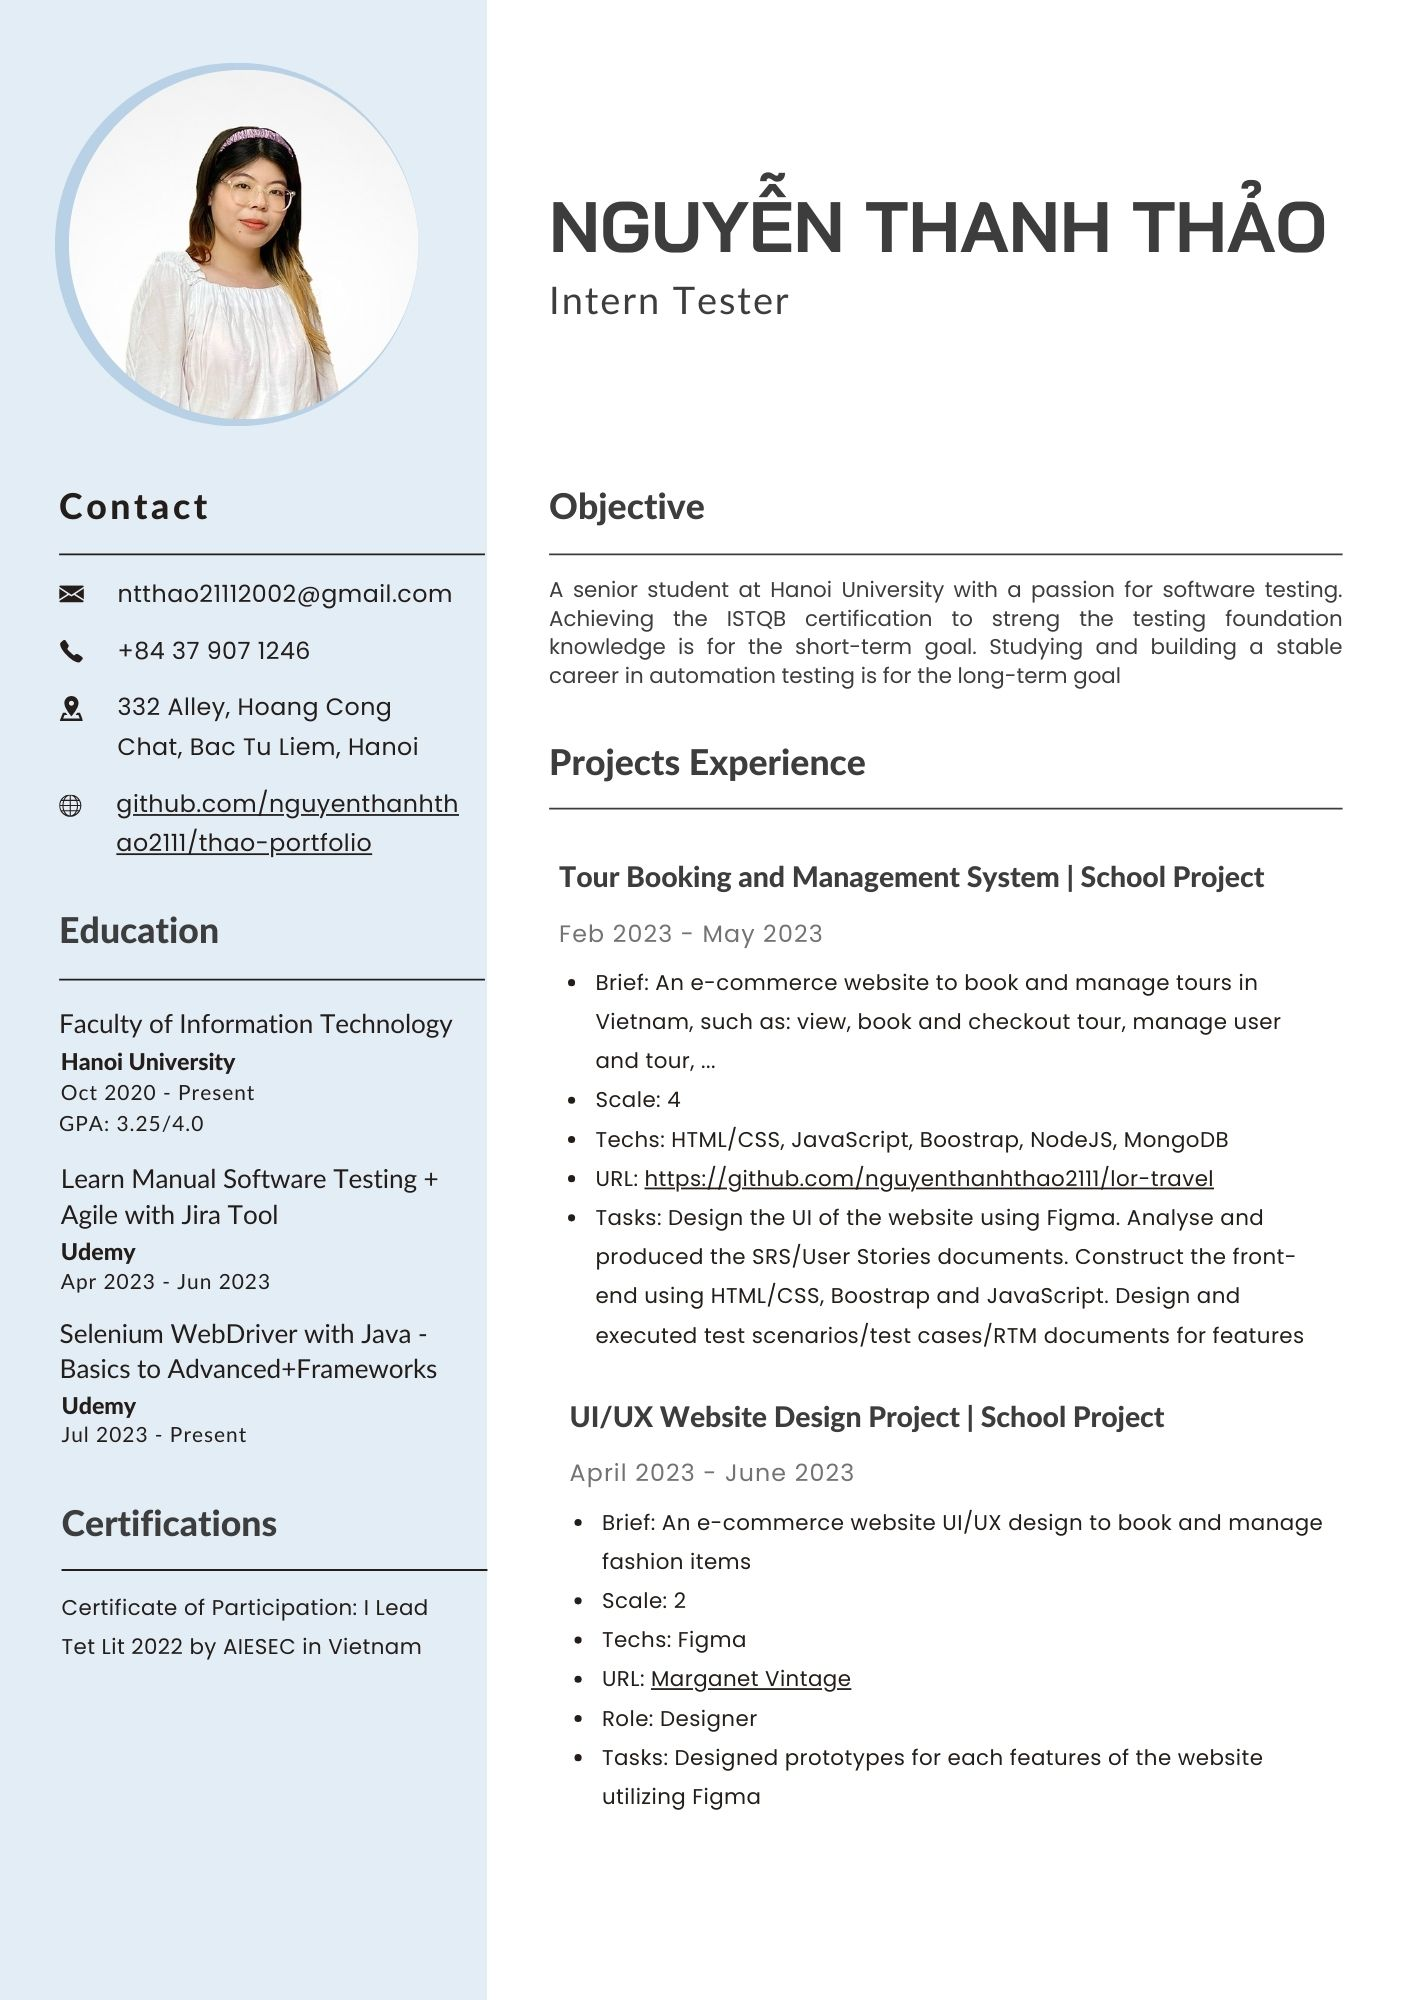
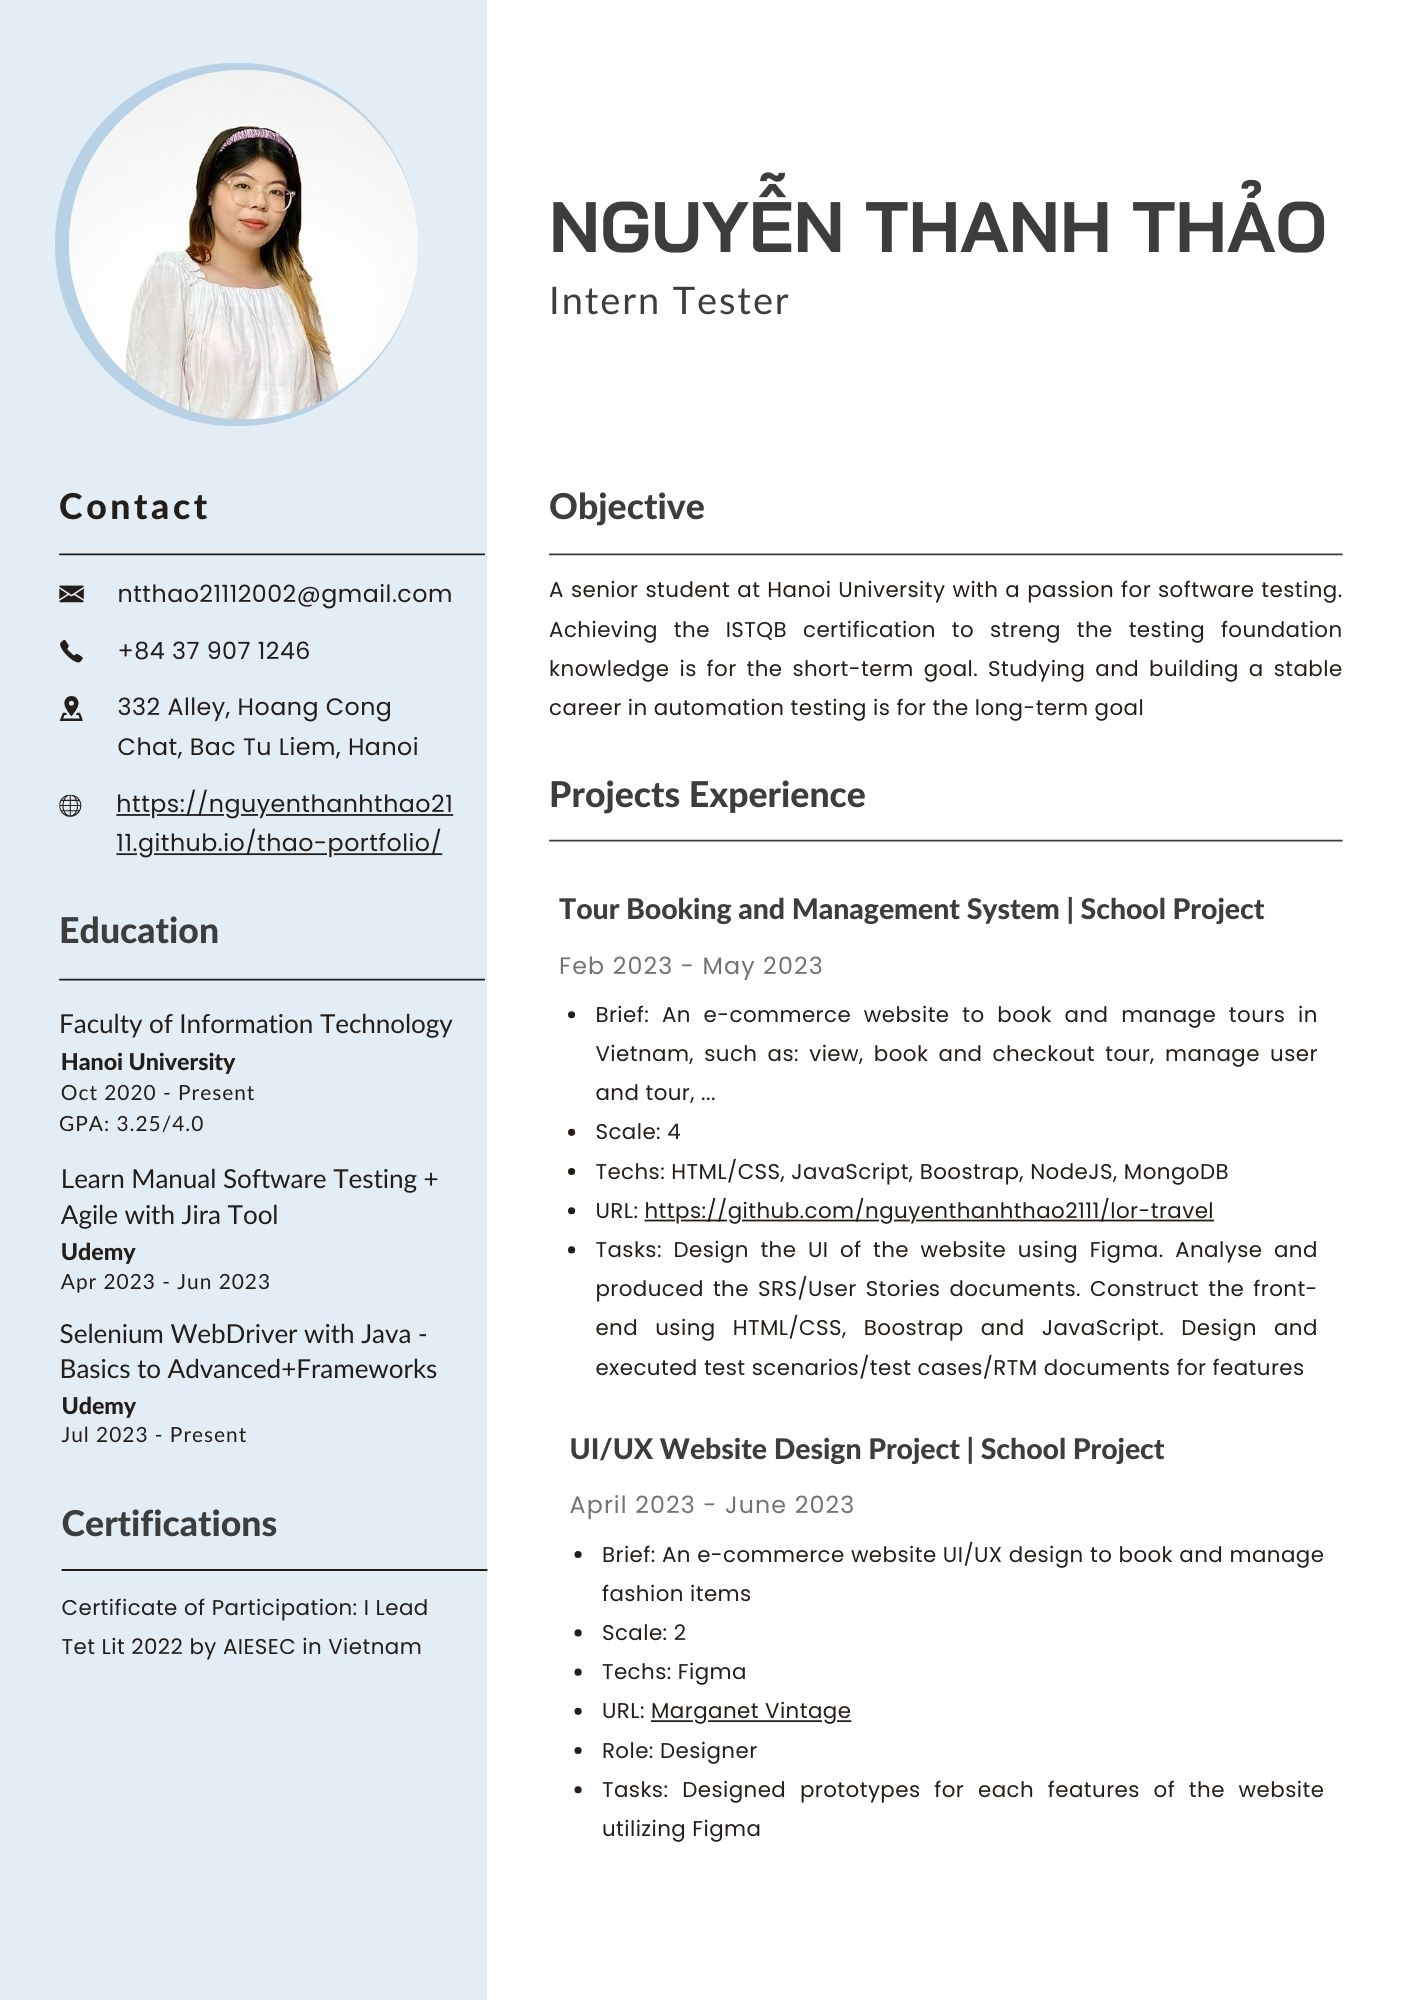
fix project and update resume

Changed region(s): [[0.3734, 0.279, 0.9646, 0.93], [0.0622, 0.372, 0.3112, 0.434], [0.9024, 0.744, 0.9335, 0.806]]

diff --git a/index.html b/index.html
@@ -97,7 +97,7 @@
                     <div class="col">
                         <div class="card card-item-1">
                             <img src="imgs/lor-travel-cover.png" class="card-img" alt="lor-travel-cover">
-                            <a href="https://github.com/nguyenthanhthao2111/lor-travel">
+                            <a href="https://github.com/nguyenthanhthao2111/lor-travel" target="_blank">
                                 <div class="card-img-overlay">
                                     <h5 class="card-title">LOR TRAVEL</h5>
                                     <p class="card-text">A user-friendly website for booking tours in Vietnam, to let
@@ -111,7 +111,7 @@
                     <div class="col">
                         <div class="card card-item-2">
                             <img src="imgs/opencart-cover.png" class="card-img" alt="opencart-cover">
-                            <a href="https://github.com/nguyenthanhthao2111/opencart-manual-testing">
+                            <a href="https://github.com/nguyenthanhthao2111/opencart-manual-testing" target="_blank">
                                 <div class="card-img-overlay">
                                     <h5 class="card-title">OPENCART </h5>
                                     <p class="card-text">A personal manual testing project on an e-commerce website
@@ -131,7 +131,7 @@
                     <div class="col">
                         <div class="card card-item-1">
                             <img src="imgs/student-api-cover.png" class="card-img" alt="student">
-                            <a href="https://github.com/nguyenthanhthao2111/students-api-testing">
+                            <a href="https://github.com/nguyenthanhthao2111/students-api-testing" target="_blank">
                                 <div class="card-img-overlay">
                                     <h5 class="card-title">STUDENT API</h5>
                                     <p class="card-text">A mini project testing API using Postman tool</p>
@@ -143,7 +143,7 @@
                     <div class="col">
                         <div class="card card-item-2">
                             <img src="imgs/marganet-vintage-cover.png" class="card-img" alt="marganet-vintage-cover">
-                            <a href="https://www.figma.com/proto/D27A1OtxHRpJWVZMm8nCZW/Marganet-Vintage">
+                            <a href="https://www.figma.com/proto/D27A1OtxHRpJWVZMm8nCZW/Marganet-Vintage" target="_blank">
                                 <div class="card-img-overlay">
                                     <h5 class="card-title">MARGANET VINTAGE</h5>
                                     <p class="card-text">An UI/UX school project for creating prototypes of a vintage

diff --git a/README.md b/README.md
@@ -1,6 +1,6 @@
 # Thao Nguyen's Portfolio
 
-Welcome to my portfolio! This repository showcases the work and projects I've completed in university's courses and personal practicing. Feel free to check out my portfolio or click [here](https://github.com/nguyenthanhthao2111/thao-portfolio) to view my personal website
+Welcome to my portfolio! This repository showcases the work and projects I've completed in university's courses and personal practicing. Feel free to check out my portfolio or click [here](https://nguyenthanhthao2111.github.io/thao-portfolio/) to view my personal website
 
 ## About Me
 I'm Thao Nguyen, a senior student at Hanoi University with a passion for software testing and quality assurance. I am currently seeking a tester internship opportunity to kickstart my professional development.
